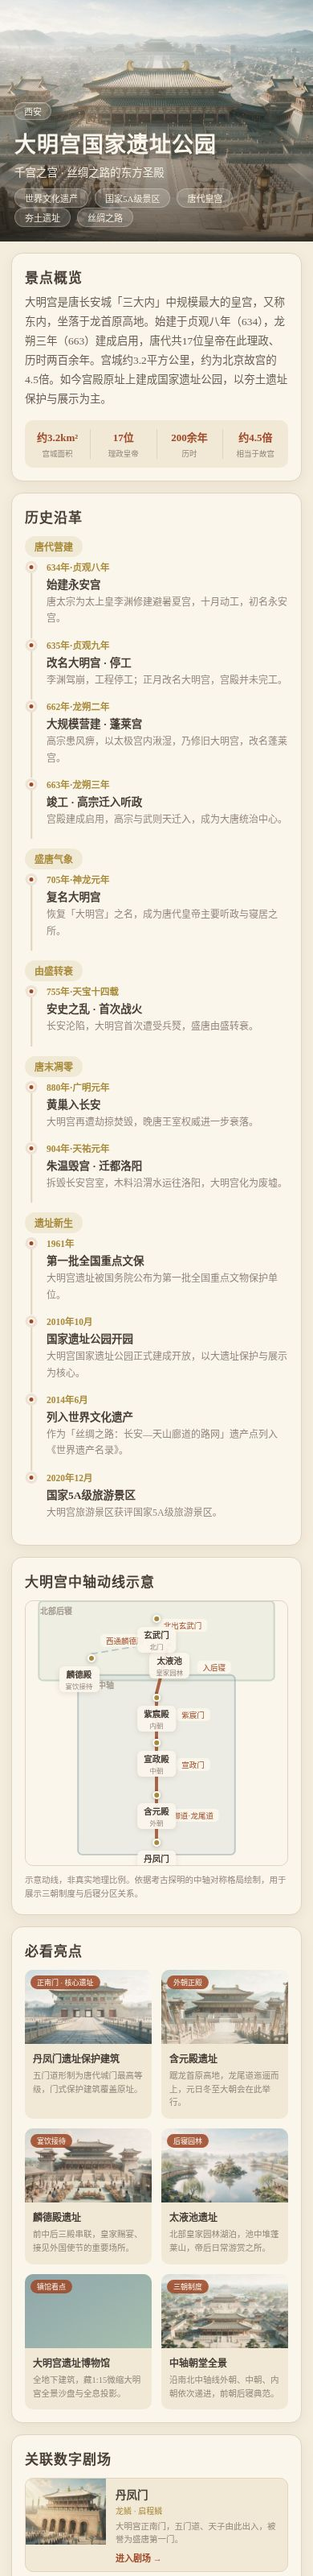
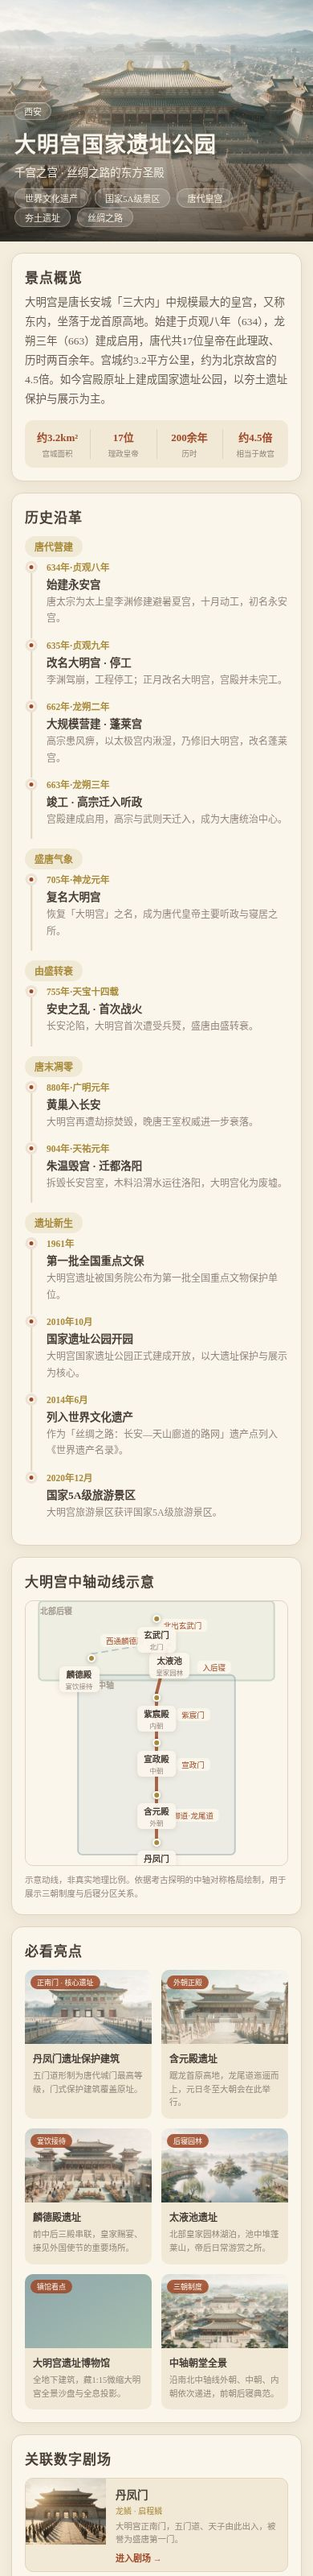
fix(previews): 剧场卡片图改用 M2 子目录 bg 路径并重新生成截图（仅预览，页面代码不变）

Changed region(s): [[0.0615, 0.9375, 0.3385, 1.0]]

diff --git a/previews/daminggong-preview.html b/previews/daminggong-preview.html
@@ -201,13 +201,13 @@
     <!-- 5. 关联剧场（七张） -->
     <div class="card">
       <div class="title-h2">关联数字剧场</div>
-      <div class="theater-card"><img src="../miniprogram/package-tour/assets/scenes/danfengmen-restore.jpg" alt=""><div class="theater-info"><div class="theater-name">丹凤门</div><div class="theater-scale">龙鳞 · 启程鳞</div><div class="theater-sub">大明宫正南门，五门道、天子由此出入，被誉为盛唐第一门。</div><div class="theater-cta">进入剧场 →</div></div></div>
-      <div class="theater-card"><img src="../miniprogram/package-tour/assets/scenes/hanyuan-restore.jpg" alt=""><div class="theater-info"><div class="theater-name">含元殿</div><div class="theater-scale">龙鳞 · 朝会鳞</div><div class="theater-sub">外朝正殿，龙尾道三折而上，元旦冬至大朝会于此。</div><div class="theater-cta">进入剧场 →</div></div></div>
-      <div class="theater-card"><img src="../miniprogram/package-tour/assets/scenes/xuanzheng-restore.jpg" alt=""><div class="theater-info"><div class="theater-name">宣政殿</div><div class="theater-scale">龙鳞 · 廊下鳞</div><div class="theater-sub">中朝正殿，朔望大朝、殿试册封之所，退朝百官领廊下食。</div><div class="theater-cta">进入剧场 →</div></div></div>
-      <div class="theater-card"><img src="../miniprogram/package-tour/assets/scenes/zichen-restore.jpg" alt=""><div class="theater-info"><div class="theater-name">紫宸殿</div><div class="theater-scale">龙鳞 · 召对鳞</div><div class="theater-sub">内朝正殿，群臣入閤，君臣近距离议政。</div><div class="theater-cta">进入剧场 →</div></div></div>
-      <div class="theater-card"><img src="../miniprogram/package-tour/assets/scenes/taiyechi-restore.jpg" alt=""><div class="theater-info"><div class="theater-name">太液池</div><div class="theater-scale">龙鳞 · 池苑鳞</div><div class="theater-sub">后寝中心，一池三山、蓬莱在望，皇家游宴赋诗之所。</div><div class="theater-cta">进入剧场 →</div></div></div>
-      <div class="theater-card"><img src="../miniprogram/package-tour/assets/scenes/linde-restore.jpg" alt=""><div class="theater-info"><div class="theater-name">麟德殿</div><div class="theater-scale">龙鳞 · 盛宴鳞</div><div class="theater-sub">三殿相连的宴饮大殿，大宴群臣、接见外宾，舞马百戏毕陈。</div><div class="theater-cta">进入剧场 →</div></div></div>
-      <div class="theater-card"><img src="../miniprogram/package-tour/assets/scenes/xuanwumen-restore.jpg" alt=""><div class="theater-info"><div class="theater-name">玄武门</div><div class="theater-scale">龙鳞 · 归愿鳞</div><div class="theater-sub">大明宫北门，云阙在此辨明玄武门之变误会，集齐七鳞投龙祈愿。</div><div class="theater-cta">进入剧场 →</div></div></div>
+      <div class="theater-card"><img src="../miniprogram/package-tour/assets/scenes/danfengmen/bg.jpg" alt=""><div class="theater-info"><div class="theater-name">丹凤门</div><div class="theater-scale">龙鳞 · 启程鳞</div><div class="theater-sub">大明宫正南门，五门道、天子由此出入，被誉为盛唐第一门。</div><div class="theater-cta">进入剧场 →</div></div></div>
+      <div class="theater-card"><img src="../miniprogram/package-tour/assets/scenes/hanyuan/bg.jpg" alt=""><div class="theater-info"><div class="theater-name">含元殿</div><div class="theater-scale">龙鳞 · 朝会鳞</div><div class="theater-sub">外朝正殿，龙尾道三折而上，元旦冬至大朝会于此。</div><div class="theater-cta">进入剧场 →</div></div></div>
+      <div class="theater-card"><img src="../miniprogram/package-tour/assets/scenes/xuanzheng/bg.jpg" alt=""><div class="theater-info"><div class="theater-name">宣政殿</div><div class="theater-scale">龙鳞 · 廊下鳞</div><div class="theater-sub">中朝正殿，朔望大朝、殿试册封之所，退朝百官领廊下食。</div><div class="theater-cta">进入剧场 →</div></div></div>
+      <div class="theater-card"><img src="../miniprogram/package-tour/assets/scenes/zichen/bg.jpg" alt=""><div class="theater-info"><div class="theater-name">紫宸殿</div><div class="theater-scale">龙鳞 · 召对鳞</div><div class="theater-sub">内朝正殿，群臣入閤，君臣近距离议政。</div><div class="theater-cta">进入剧场 →</div></div></div>
+      <div class="theater-card"><img src="../miniprogram/package-tour/assets/scenes/taiyechi/bg.jpg" alt=""><div class="theater-info"><div class="theater-name">太液池</div><div class="theater-scale">龙鳞 · 池苑鳞</div><div class="theater-sub">后寝中心，一池三山、蓬莱在望，皇家游宴赋诗之所。</div><div class="theater-cta">进入剧场 →</div></div></div>
+      <div class="theater-card"><img src="../miniprogram/package-tour/assets/scenes/linde/bg.jpg" alt=""><div class="theater-info"><div class="theater-name">麟德殿</div><div class="theater-scale">龙鳞 · 盛宴鳞</div><div class="theater-sub">三殿相连的宴饮大殿，大宴群臣、接见外宾，舞马百戏毕陈。</div><div class="theater-cta">进入剧场 →</div></div></div>
+      <div class="theater-card"><img src="../miniprogram/package-tour/assets/scenes/xuanwumen/bg.jpg" alt=""><div class="theater-info"><div class="theater-name">玄武门</div><div class="theater-scale">龙鳞 · 归愿鳞</div><div class="theater-sub">大明宫北门，云阙在此辨明玄武门之变误会，集齐七鳞投龙祈愿。</div><div class="theater-cta">进入剧场 →</div></div></div>
     </div>
 
     <!-- 6. 史料引用 -->
